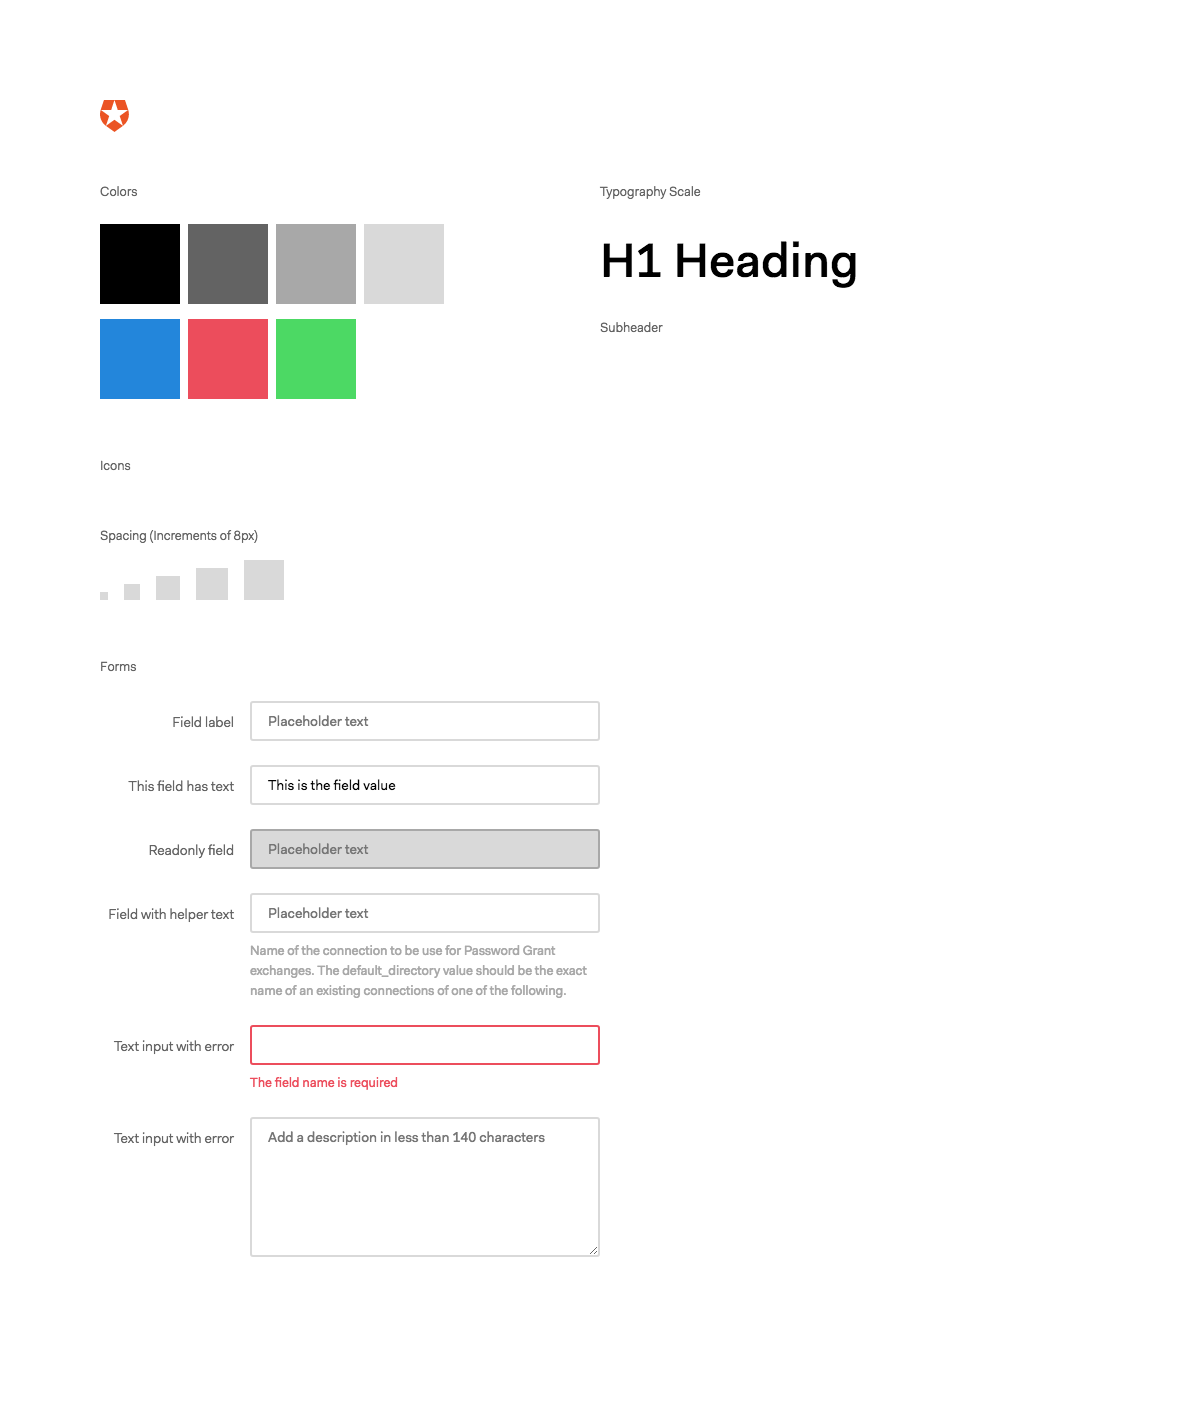
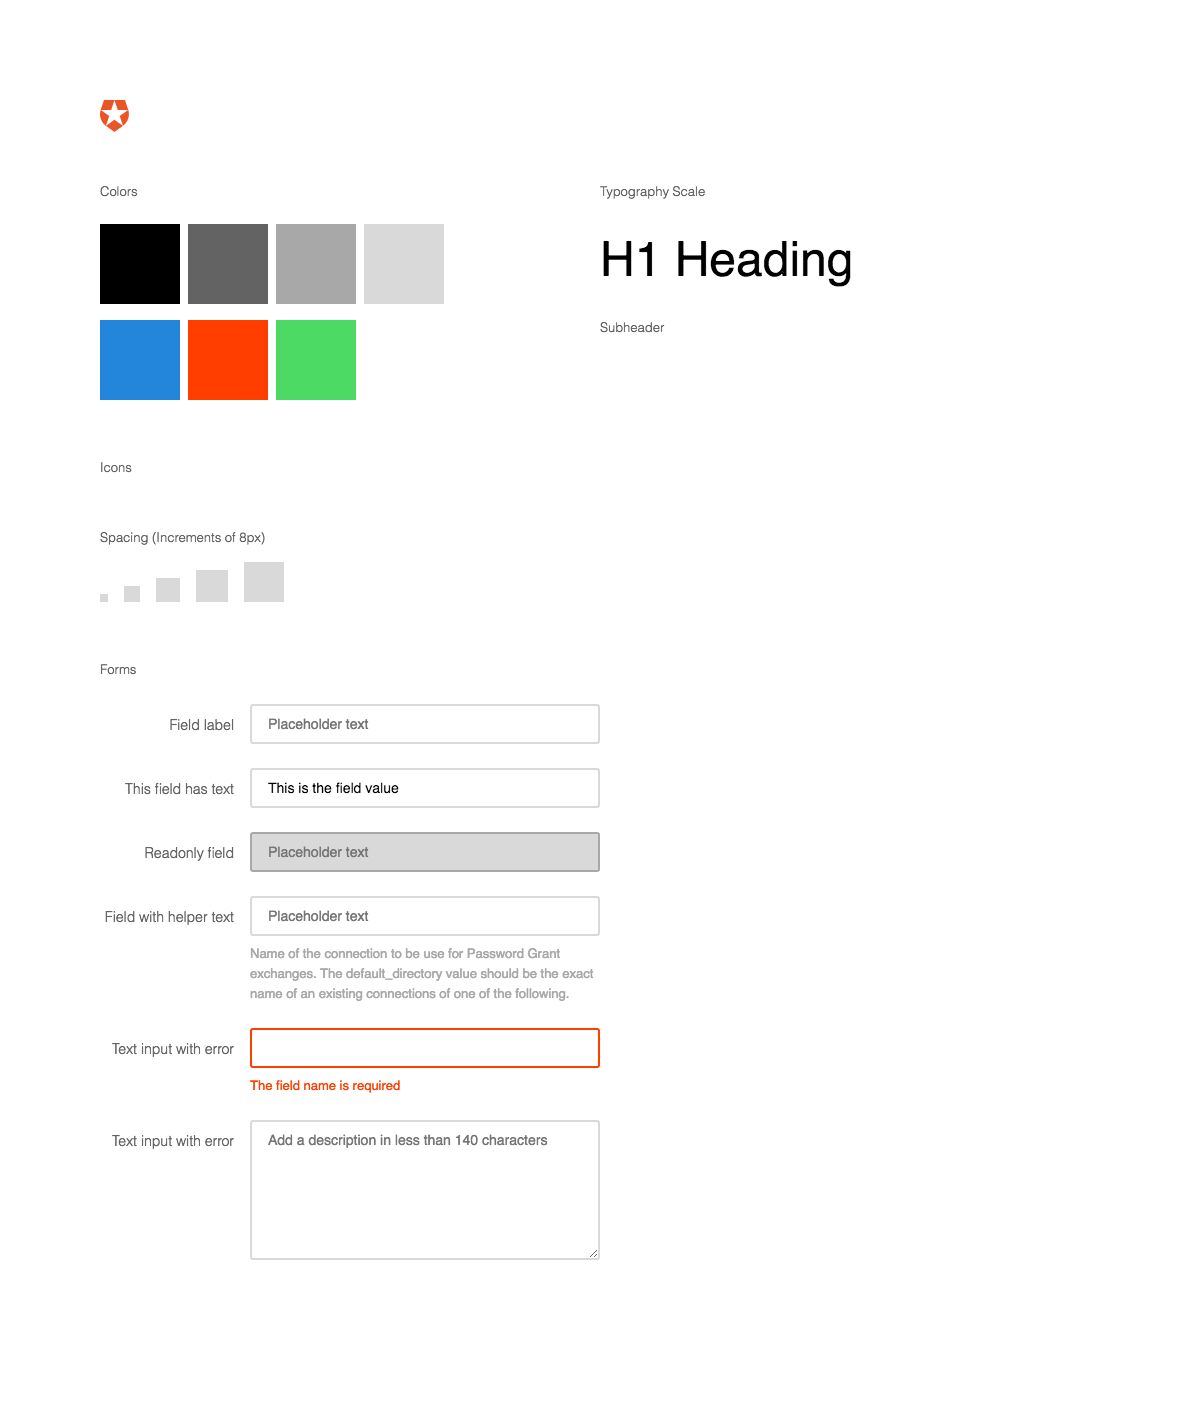
font demo, coz color was too subtle

diff --git a/src/tokens/colors.js b/src/tokens/colors.js
@@ -4,7 +4,7 @@ const colors = {
   grayMedium: '#A8A8A8',
   grayLight: '#D9D9D9',
   blue: '#2386DB',
-  orange: '#EC4D5C',
+  orange: '#FF3E00',
   green: '#4CD964',
   white: '#FFF'
 }

diff --git a/src/tokens/fonts.js b/src/tokens/fonts.js
@@ -1,5 +1,5 @@
 const fonts = {
-  text: 'fakt-web, Helvetica, sans-serif',
+  text: 'Helvetica, sans-serif',
   code: 'Roboto Mono, monospace'
 }
 
